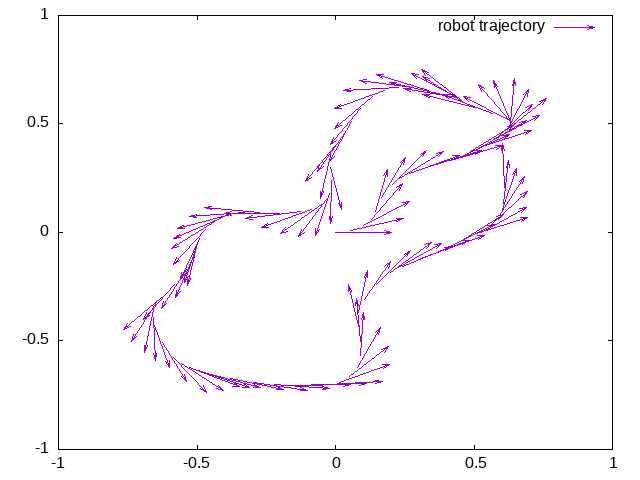
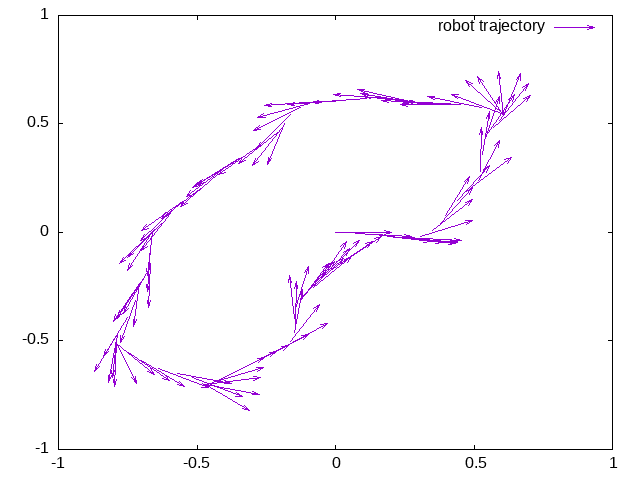
Add 360 degree sensor

diff --git a/sim/simple_kinematic_simulator.py b/sim/simple_kinematic_simulator.py
@@ -13,21 +13,22 @@ L = 0.10  # distance between wheels in meters
 W = 2.0  # width of arena
 H = 2.0  # height of arena
 
-robot_timestep = 0.1        # 1/robot_timestep equals update frequency of robot
+robot_timestep = 0.1  # 1/robot_timestep equals update frequency of robot
 simulation_timestep = 0.01  # timestep in kinematics sim (probably don't touch..)
 
 # the world is a rectangular arena with width W and height H
-world = LinearRing([(W/2,H/2),(-W/2,H/2),(-W/2,-H/2),(W/2,-H/2)])
+world = LinearRing([(W / 2, H / 2), (-W / 2, H / 2), (-W / 2, -H / 2), (W / 2, -H / 2)])
 
-# Variables 
+# Variables
 ###########
 
-x = 0.0   # robot position in meters - x direction - positive to the right 
-y = 0.0   # robot position in meters - y direction - positive up
-q = 0.0   # robot heading with respect to x-axis in radians 
+x = 0.0  # robot position in meters - x direction - positive to the right
+y = 0.0  # robot position in meters - y direction - positive up
+q = 0.0  # robot heading with respect to x-axis in radians
 
-left_wheel_velocity =  random()   # robot left wheel velocity in radians/s
-right_wheel_velocity =  random()  # robot right wheel velocity in radians/s
+left_wheel_velocity = random()  # robot left wheel velocity in radians/s
+right_wheel_velocity = random()  # robot right wheel velocity in radians/s
+
 
 # Kinematic model
 #################
@@ -36,43 +37,83 @@ right_wheel_velocity =  random()  # robot right wheel velocity in radians/s
 def simulationstep():
     global x, y, q
 
-    for step in range(int(robot_timestep/simulation_timestep)):     #step model time/timestep times
-        v_x = cos(q)*(R*left_wheel_velocity/2 + R*right_wheel_velocity/2) 
-        v_y = sin(q)*(R*left_wheel_velocity/2 + R*right_wheel_velocity/2)
-        omega = (R*right_wheel_velocity - R*left_wheel_velocity)/(2*L)    
-    
+    for step in range(
+        int(robot_timestep / simulation_timestep)
+    ):  # step model time/timestep times
+        v_x = cos(q) * (R * left_wheel_velocity / 2 + R * right_wheel_velocity / 2)
+        v_y = sin(q) * (R * left_wheel_velocity / 2 + R * right_wheel_velocity / 2)
+        omega = (R * right_wheel_velocity - R * left_wheel_velocity) / (2 * L)
+
         x += v_x * simulation_timestep
         y += v_y * simulation_timestep
         q += omega * simulation_timestep
+
 
 # Simulation loop
 #################
 file = open("trajectory.dat", "w")
 
-for cnt in range(5000):
-    #simple single-ray sensor
-    ray = LineString([(x, y), (x+cos(q)*2*(W+H),(y+sin(q)*2*(W+H))) ])  # a line from robot to a point outside arena in direction of q
+for cnt in range(50):
+    # 360 degree sensor
+    for i in range(360):
+        radians = i * pi / 180
+        laser_ray = LineString(
+            [
+                (x, y),
+                (
+                    x + cos(q + radians) * 2 * (W + H),
+                    (y + sin(q + radians) * 2 * (W + H)),
+                ),
+            ]
+        )  # a line from robot to a point outside arena in direction of q
+        ls = world.intersection(laser_ray)
+        if cnt % 50 == 0 and i % 10 == 0:
+            file.write(
+                str(ls.x)
+                + ", "
+                + str(ls.y)
+                + ", "
+                + str(cos(q + radians + pi) * 0.2)
+                + ", "
+                + str(sin(q + radians + pi) * 0.2)
+                + "\n"
+            )
+
+    # simple single-ray sensor
+
+    ray = LineString(
+        [(x, y), (x + cos(q) * 2 * (W + H), (y + sin(q) * 2 * (W + H)))]
+    )  # a line from robot to a point outside arena in direction of q
+
     s = world.intersection(ray)
-    distance = sqrt((s.x-x)**2+(s.y-y)**2)                    # distance to wall
-    
-    #simple controller - change direction of wheels every 10 seconds (100*robot_timestep) unless close to wall then turn on spot
-    if (distance < 0.5):
+    distance = sqrt((s.x - x) ** 2 + (s.y - y) ** 2)  # distance to wall
+
+    # simple controller - change direction of wheels every 10 seconds (100*robot_timestep) unless close to wall then turn on spot
+    if distance < 0.5:
         left_wheel_velocity = -0.4
         right_wheel_velocity = 0.4
-    else:                
-        if cnt%100==0:
+    else:
+        if cnt % 100 == 0:
             left_wheel_velocity = random()
             right_wheel_velocity = random()
-        
-    #step simulation
+
+    # step simulation
     simulationstep()
 
-    #check collision with arena walls 
-    if (world.distance(Point(x,y))<L/2):
+    # check collision with arena walls
+    if world.distance(Point(x, y)) < L / 2:
         break
-        
-    if cnt%50==0:
-        file.write( str(x) + ", " + str(y) + ", " + str(cos(q)*0.2) + ", " + str(sin(q)*0.2) + "\n")
+
+    if cnt % 50 == 0:
+        file.write(
+            str(x)
+            + ", "
+            + str(y)
+            + ", "
+            + str(cos(q) * 0.2)
+            + ", "
+            + str(sin(q) * 0.2)
+            + "\n"
+        )
 
 file.close()
-    

diff --git a/notes.md b/notes.md
@@ -99,9 +99,9 @@ What you have to worry about when solving the task:
 
 
 
-## Lecture 2.2 - Thursday, 05/09/2024
+# Lecture 2.2 - Thursday, 05/09/2024
 
-### Behavior based control
+## Behavior based control
 
 Classic control: Sense $\rightarrow$ Plan $\rightarrow$ Act
 
@@ -129,7 +129,7 @@ Sensors:
 - Odometry: Encoders on the wheels to measure how far the robot has moved
 - Dirt: Acoustic impact sensor (noise)
 
-### Simple behaviors
+## Simple behaviors
 
 Simple is always better
 - Robust
@@ -143,7 +143,7 @@ Should the robot close its eyes when turning in an intersection?
 
 Behaviors are modular
 
-### Behavior coordination
+## Behavior coordination
 
 - They cannot all control the robot at the same time
 - Should they compete or cooperate?
@@ -168,23 +168,23 @@ Behaviors are modular
 4. Evaluate the robot
 5. Repeat
 
-### Complex systems
+## Complex systems
 
 Kismet example
 
 Social human robot
 
-## Lecture 3.1 - Tuesday 10/09/2024 - Hierarchical architectures
+# Lecture 3.1 - Tuesday 10/09/2024 - Hierarchical architectures
 
-### Symbolic-based paradigm
+## Symbolic-based paradigm
 
 Stuck for several decades in the mindset that we only need better sensors, our model is perfect and our robot is perfect and the world is perfect.
 
 Finally led to hybrid systems.
 
-## Lecture 3.2 - Thursday 12/09/2024 - Hierarchical architectures
+# Lecture 3.2 - Thursday 12/09/2024 - Hierarchical architectures
 
-## Lecture 4.1 - Tuesday 17/09/2024 -
+# Lecture 4.1 - Tuesday 17/09/2024
 
 Ask these questions when writing the report
 
@@ -205,4 +205,6 @@ Ask these questions when writing the report
 - Sometimes we have a tendency to do too large conclusions based on too little data
   - Don't overstate the results
   - Be careful with the conclusions
+
+# Lecture 5.1 - Tuesday 24/09/2024
 
